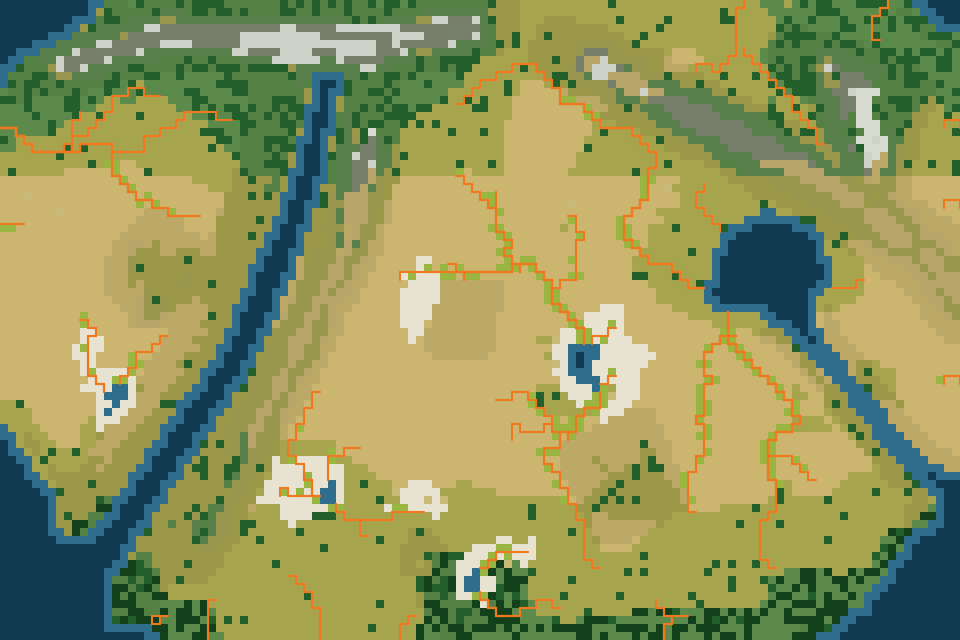
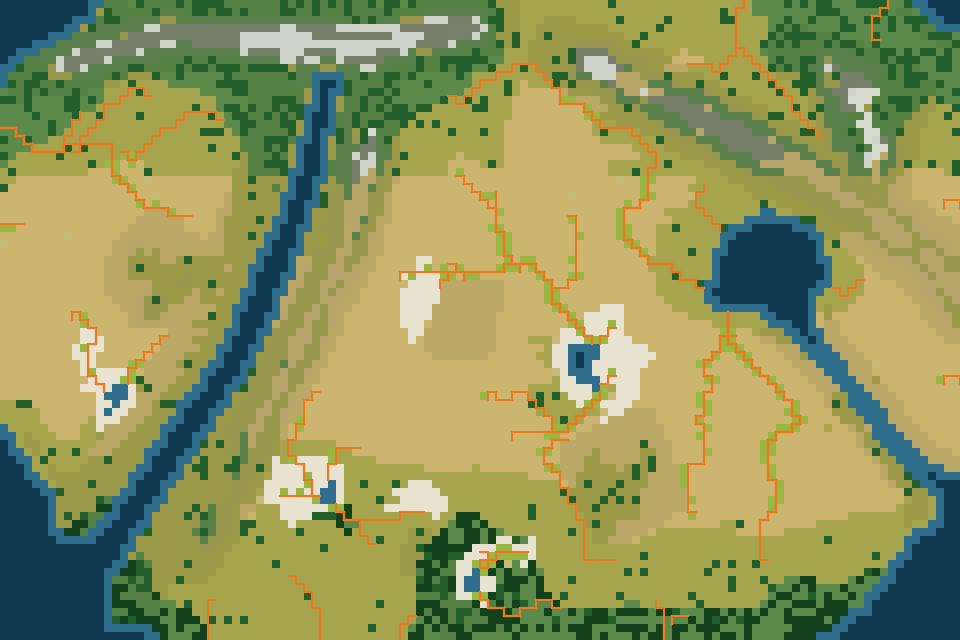
Meandering climate bands; atolls as thin rings with lagoons
- climate: the zonal tables are read at a meandering latitude (+-3.5 deg,
  waves ~10 deg long), so climate borders wander like storm tracks
  instead of following lines of latitude (the stripe in the temperate map).
- sculpt chain: atolls are written per tile as one-tile elliptical rings
  of islets and reef around a shallow lagoon, up to ~7 tiles across,
  more islets on the windward side, land share varying per atoll
  (atollRadius, atollLand), capped by the chain spacing; the oldest high
  islands sit inside barrier reefs; volcanoes are elongated.
- Round 4 maps rebuilt; READMEs updated.

diff --git a/core/sculpt.js b/core/sculpt.js
@@ -103,11 +103,19 @@
       const pts = []; let total = 0; for (let i = 1; i < path.length; i++) total += Math.hypot(path[i][0] - path[i - 1][0], path[i][1] - path[i - 1][1]);
       const at = s => { let acc = 0; for (let i = 1; i < path.length; i++) { const L = Math.hypot(path[i][0] - path[i - 1][0], path[i][1] - path[i - 1][1]); if (acc + L >= s || i === path.length - 1) { const u = L ? clamp((s - acc) / L, 0, 1) : 0; const dx = path[i][0] - path[i - 1][0], dy = path[i][1] - path[i - 1][1], n = Math.hypot(dx, dy) || 1; return [path[i - 1][0] + u * dx, path[i - 1][1] + u * dy, -dy / n, dx / n]; } acc += L; } };
       for (let j = 0; j < cnt; j++) { const f = j / (cnt - 1), p = at(f * total), off = (vnoise(j * 1.7 + seed, 3.1) - 0.5) * 2 * jit * lerp(r0, r1, f) * 1.5; pts.push({ x: p[0] + p[2] * off, y: p[1] + p[3] * off, h: lerp(h0, h1, f) * (0.75 + 0.5 * vnoise(j * 2.3, seed)), r: lerp(r0, r1, f) * (0.8 + 0.4 * vnoise(seed, j * 1.9)), atoll: j >= cnt - nAt, s: seed + j * 101 }); }
+      const spacing = total / Math.max(1, cnt - 1), [a0, a1] = o.atollRadius || [1.2, 3.4], nVol = cnt - nAt, nBar = o.barrier === false ? 0 : Math.ceil(nVol * 0.35);
+      pts.forEach((v, j) => {   // an atoll's ring is as big as a drowned volcano's reef grew, not as small as the volcano was
+        const u = vnoise(v.s * 0.37, 5.3), R = Math.max(0.6, Math.min(lerp(a0, a1, u * u * 1.15), spacing * 0.33));
+        const land = o.atollLand != null ? clamp(+o.atollLand, 0, 1) : 0.2 + 0.65 * vnoise(2.9, v.s * 0.53);   // some atolls are nearly all reef, some a near-closed ring of islets
+        if (v.atoll) { SC.post.push({ kind: 'atoll', x: v.x, y: v.y, r: R, land, s: v.s }); return; }
+        if (j >= nVol - nBar) SC.post.push({ kind: 'atoll', x: v.x, y: v.y, r: v.r + 1.1 + 0.6 * u, land: 0.12 + 0.2 * u, s: v.s + 7 });   // the oldest high islands sink inside a barrier reef (Bora Bora)
+      });
       for (const v of pts) {
-        if (v.atoll) { SC.post.push({ kind: 'atoll', x: v.x, y: v.y, r: Math.max(0.6, v.r), s: v.s }); continue; }
+        if (v.atoll) continue;
+        const e = 1 + 0.7 * vnoise(v.s * 0.71, 1.7), th = vnoise(4.4, v.s * 0.29) * Math.PI * 2, ce = Math.cos(th), se = Math.sin(th);   // islands are elongated along their rift zones
         /* r is the island's radius AT SEA LEVEL: above it a shield rising to v.h, below it the submarine flank falling to
            the floor over another 1.5 r, with lobed outlines so no two islands share a shape */
-        forCells((i, x, y) => { const dx = x - v.x, dy = y - v.y, ang = Math.atan2(dy, dx), lobe = 1 + 0.28 * (vnoise(Math.cos(ang) * 1.8 + v.s, Math.sin(ang) * 1.8 - v.s) - 0.5) * 2, d = Math.hypot(dx, dy) / (v.r * lobe); if (d > 2.6) return;
+        forCells((i, x, y) => { const dx = x - v.x, dy = y - v.y, ang = Math.atan2(dy, dx), lobe = 1 + 0.28 * (vnoise(Math.cos(ang) * 1.8 + v.s, Math.sin(ang) * 1.8 - v.s) - 0.5) * 2, ua = dx * ce + dy * se, va = -dx * se + dy * ce, d = Math.hypot(ua / Math.sqrt(e), va * Math.sqrt(e)) / (v.r * lobe); if (d > 2.6) return;
           const val = d < 1 ? v.h * (1 - Math.pow(d, 1.4)) * (0.85 + 0.3 * vnoise(x * 1.3 + v.s, y * 1.3)) + 3 : -Math.min(1, (d - 1) / 1.5) * (-SC.base); SC.h[i] = Math.max(SC.h[i], val); });
       }
       note = `${cnt - nAt} volcanoes + ${nAt} atolls`;
@@ -142,9 +150,24 @@
     for (let i = 0; i < h.length; i++) { const v = SC.h[i]; h[i] = L >= 0 ? v - L : v >= 0 ? v + LOW : v > L ? (v - L) / (-L) * LOW : v - L; }
     for (const p of SC.post) {
       if (p.kind === 'atoll') {
-        const R = Math.ceil((p.r * 1.5 + 1) * k), cx0 = Math.floor(p.x * k), cy0 = Math.floor(p.y * k);
-        for (let cy = cy0 - R; cy <= cy0 + R; cy++) for (let cx = cx0 - R; cx <= cx0 + R; cx++) { if (cx < 0 || cy < 0 || cx >= GW || cy >= GH) continue; const x = (cx + 0.5) / k, y = (cy + 0.5) / k, dx = x - p.x, dy = y - p.y, ang = Math.atan2(dy, dx), rr = p.r * (1 + 0.25 * (vnoise(Math.cos(ang) * 1.5 + p.s, Math.sin(ang) * 1.5) - 0.5) * 2), d = Math.hypot(dx, dy), i = cy * GW + cx;
-          const ring = Math.exp(-Math.pow((d - rr) / Math.max(0.55, rr * 0.4), 2)); if (d < rr) h[i] = Math.max(h[i], -25 + 20 * ring); if (ring > 0.35) h[i] = Math.max(h[i], 4 + 6 * ring); else if (d > rr) h[i] = Math.max(h[i], -60 * (1 - ring) - 5); }   // a reef ring wide enough to hold land at tile scale, a shallow lagoon inside
+        /* written per tile (all k*k cells alike) so the rim is exactly one tile thick: an elliptical ring of reef with islets
+           (motus) on it, more of them on the windward (east) side, passes between them, a shallow lagoon inside and the reef
+           front falling to the deep outside. Everything is max()ed in, so a barrier reef never drowns its high island. */
+        const e = 1 + 0.6 * vnoise(p.s * 0.41, 8.2), th = vnoise(6.6, p.s * 0.17) * Math.PI * 2, ce = Math.cos(th), se = Math.sin(th);
+        const A = p.r * Math.sqrt(e), B = p.r / Math.sqrt(e), R = Math.ceil(A + 3), tx0 = Math.floor(p.x), ty0 = Math.floor(p.y), rim = [];
+        const put = (tx, ty, v) => { for (let dy = 0; dy < k; dy++) for (let dx = 0; dx < k; dx++) { const cx = tx * k + dx, cy = ty * k + dy; if (cx < GW && cy < GH) { const i = cy * GW + cx; h[i] = Math.max(h[i], v); } } };
+        for (let ty = ty0 - R; ty <= ty0 + R; ty++) for (let tx = tx0 - R; tx <= tx0 + R; tx++) {
+          if (tx < 0 || ty < 0 || tx * k >= GW || ty * k >= GH) continue;
+          const dx = tx + 0.5 - p.x, dy = ty + 0.5 - p.y, u = dx * ce + dy * se, v = -dx * se + dy * ce, ang = Math.atan2(v, u), dist = Math.hypot(dx, dy);
+          const reff = 1 / Math.sqrt(Math.pow(Math.cos(ang) / A, 2) + Math.pow(Math.sin(ang) / B, 2)) + 0.3 * (vnoise(Math.cos(ang) * 1.6 + p.s, Math.sin(ang) * 1.6 - p.s) - 0.5) * 2;
+          const sd = dist - reff;
+          if (Math.abs(sd) <= 0.5) { const n = vnoise(Math.cos(Math.atan2(dy, dx)) * 2.2 + p.s * 0.3, Math.sin(Math.atan2(dy, dx)) * 2.2 - p.s * 0.3) + 0.15 * dx / Math.max(0.5, dist); rim.push([tx, ty, n]); }
+          else if (sd < -0.5) put(tx, ty, -10 - 12 * clamp(-sd / Math.max(1, B), 0, 1));   // lagoon
+          else if (sd < 3) put(tx, ty, -18 - 45 * (sd - 0.5) / 2.5);                          // reef front
+        }
+        if (!rim.length) continue;
+        rim.sort((a, b) => b[2] - a[2]); const nLand = Math.max(1, Math.round(rim.length * p.land));
+        rim.forEach(([tx, ty], j) => put(tx, ty, j < nLand ? 3 + 2 * (j % 2) : -3));        // islets on the highest-scoring rim tiles, reef elsewhere
       } else if (p.kind === 'fjords') {
         let total = 0; for (let i = 1; i < p.path.length; i++) total += Math.hypot(p.path[i][0] - p.path[i - 1][0], p.path[i][1] - p.path[i - 1][1]);
         for (let j = 0; j < p.count; j++) {

diff --git a/core/climate.js b/core/climate.js
@@ -64,9 +64,13 @@
     }
     const Ta = new Float32Array(N), warm = new Float32Array(N), cold = new Float32Array(N), P = new Float32Array(N), kc = new Uint8Array(N), seas = new Uint8Array(N);
     for (let y = 0; y < H; y++) {
-      const lat = grid.lat(y), a = Math.abs(lat), band = lerpTable(P_BAND, a), t0 = lerpTable(T_LAT, a);
+      const lat = grid.lat(y), a = Math.abs(lat);
       for (let x = 0; x < W; x++) {
         const i = y * W + x; if (!land[i]) continue;
+        /* the zonal tables are read at a meandering latitude (+-3.5 deg, waves ~10 deg long, measured in degrees so every map
+           scale meanders alike), as storm tracks and the subtropical highs wander: climate borders are not lines of latitude */
+        const dpt = km / 111.32, sd = grid.seed || 1, aE = Math.max(0, a + 7 * (vnoise(x * dpt / 10 + sd * 2.1, lat / 10 - sd) - 0.5));
+        const band = lerpTable(P_BAND, aE), t0 = lerpTable(T_LAT, aE);
         const dkm = dist[i] * km, cont = clamp(dkm / 1500, 0, 1), e = Math.max(0, elev[i]);
         // mid-latitude windward coasts are mild, lee coasts and interiors cold (the ocean's heat carried on the westerlies)
         const wband = fromWest[y] ? clamp((a - 32) / 10, 0, 1) * clamp((70 - a) / 8, 0, 1) : 0;
@@ -74,7 +78,7 @@
         Ta[i] = t; warm[i] = t + amp / 2; cold[i] = t - amp / 2;
         const mIso = 0.55 * Math.exp(-dkm / 700), m = Math.max(mDir[i], mIso);
         // weather is patchy: a low-frequency +-25% field (and a little finer grain) keeps the zonal bands from drawing ruler-straight climate borders
-        const sd = grid.seed || 1, patch = 1 + 0.5 * (vnoise(x / 7 + sd * 1.3, y / 7 - sd * 0.7) - 0.5) + 0.2 * (vnoise(x / 2.5 - sd, y / 2.5 + sd) - 0.5);
+        const patch = 1 + 0.5 * (vnoise(x / 7 + sd * 1.3, y / 7 - sd * 0.7) - 0.5) + 0.2 * (vnoise(x / 2.5 - sd, y / 2.5 + sd) - 0.5);
         P[i] = band * (150 + 1900 * m + 2200 * oro[i]) * (opts.wetness || 1) * patch;
         // seasonality: Mediterranean west coasts, monsoon windward coasts
         const westCoast = fromWest[y] && a >= 30 && a <= 44 && cont < 0.45;

diff --git a/mcp/scenarios/round4/README.md b/mcp/scenarios/round4/README.md
@@ -15,6 +15,7 @@ The critique of round 3, and what changed in the tools because of it:
 | Map 4 has too much ocean; fill the interstitial spaces | `attach {overlap:'auto'}` *fuses* pieces along an interest-weighted min-cut seam that prefers land meeting land; `fill_gaps` closes sea gaps between pieces into lowland (lakes and river mouths kept); `reclimate` gives the collage the climate of where its pieces now sit. |
 | the MCP is timid about mashing landforms together | each snapshot gets a per-tile **interest** map (0-9: relief, capes and bay heads, climate boundaries, rivers, oases, flood plains, salt) shown by `overlay:'interest'`, with per-edge interest in `snapshot_info`; the fuse seam runs through low-interest land. |
 | broken rivers | fixed at the source (below). |
+| (follow-up) latitude banding in map 4; atolls homogeneous blobs | the climate tables are read at a meandering latitude (+-3.5°, waves ~10° long), so climate borders wander like storm tracks; atolls are rebuilt as thin rings (map 3). |
 
 ## 1. Earthlike world — `R4_1_earthlike.png` (sculpt)
 
@@ -26,9 +27,9 @@ hotspot chains, sea level set for 30% land.
 |---|---|
 | land | 32% |
 | continents | 1149 and 1092 tiles; subcontinents 263, 173, 151 |
-| climate | arid 41%, tropical 20%, temperate 18%, continental 11%, tundra 8%, ice 2% |
-| by latitude | 0-15° tropical 66%; 15-30° arid 86%; 30-45° arid 40% / temperate 39%; 45-60° continental 63% |
-| rivers | 18 systems, all reach the sea; 3 flagged (end in closed basins) |
+| climate | arid 42%, tropical 19%, temperate 18%, continental 11%, tundra 9%, ice 2% |
+| by latitude | 0-15° tropical 63%; 15-30° arid 86%; 30-45° arid 41% / temperate 38%; 45-60° continental 63% |
+| rivers | 20 systems, all reach the sea; 3 also have a branch ending in a closed basin |
 | cradles | the river valleys on the subtropical deserts' wet margins (west continent's south, east continent's centre) |
 
 ## 2. Desert — `R4_2_desert.png` (sculpt)
@@ -41,22 +42,29 @@ deepest part; arid basins are not filled into lakes.
 | | |
 |---|---|
 | land | 88% |
-| climate | arid 76%, temperate 14% (the northern ranges), tundra 5% (peaks), tropical 5% (the far south) |
+| climate | arid 76%, temperate 13% (the northern ranges), tropical 6% (the far south), tundra 5% (peaks) |
 | closed basins | 6, from 103 tiles of salt flat with an 18-tile lake down to 24 tiles |
-| rivers | 28 systems: 16 reach the sea or a lake, 11 leave across the map border, 5 end in salt flats |
+| rivers | 28 systems: 15 reach the sea or a lake, 10 leave across the map border, 3 end in salt flats |
 | oases, flood plains | features on (oasis density 0.8): the oases and valley floors are the ground worth fighting over |
 
 ## 3. Tropical islands — `R4_3_tropical.png` (sculpt)
 
-16°N..16°S, seed 41. Six hotspot chains on separate tracks with open ocean between them: two long low atoll
-chains (Ralik/Ratak style, parallel), one long chain ageing from high islands to atolls, two short high chains,
-and one large high island at the centre with its own tail of atolls.
+16°N..16°S, seed 41. Six hotspot chains on separate tracks with open ocean between them: two short parallel
+atoll chains (Ralik/Ratak style), one long atoll chain with large rings (`atollRadius:[2.2,4]`), one chain ageing
+from high islands to atolls, a short high chain, and one large high island at the centre with its own tail.
+
+Atolls are one-tile rings around a shallow lagoon, up to 7 tiles across, elongated and oriented at random. The rim
+is islets (motus) and reef with passes between them, more islets on the windward east side. The share of the rim
+that is land varies per atoll, so some are nearly all reef and some a near-closed ring. The oldest high islands of
+each chain sit inside a barrier reef (the Bora Bora stage), and the volcanoes are elongated along their rift zones,
+so no two islands share a shape. Atoll size is capped at a third of the spacing, so a chain stays a row of distinct
+atolls instead of a reef band.
 
 | | |
 |---|---|
-| land | 7% |
-| landmasses | 38; the largest 119, 86, 82 tiles; the rest are islets and atolls |
-| climate | tropical 86%, temperate 14% (the high islands' uplands) |
+| land | 6% |
+| islands | the largest high islands 122, 93, 88 tiles; the rest are islets and atoll rims |
+| climate | tropical 85%, temperate 14% (the high islands' uplands) |
 | balance | no chain is more than a few tiles from open sea; every island is reachable by water from several sides |
 
 ## 4. Temperate with mountain chains — `R4_4_temperate.png` (compose + fuse + reclimate)
@@ -64,15 +72,15 @@ and one large high island at the centre with its own tail of atolls.
 Real pieces cut by lassos: New Zealand's Southern Alps (flipped N-S), western Norway, the Scottish Highlands,
 Jutland, western Ireland and the Pannonian basin. They are fused with `attach {overlap:'auto'}`; `fill_gaps` closes
 the sea between them in the south-west, keeping lakes and river mouths open. Then `reclimate` on a 56°N..40°N
-canvas with wetness 0.3, so the basin and the lee of the ranges become steppe; then `trim_rivers` and
+canvas with wetness 0.38, so the basin interior and the lee of the ranges become steppe; then `trim_rivers` and
 `extend_river`.
 
 | | |
 |---|---|
 | land | 50% (round 3: 40%), one main landmass of 4782 tiles |
-| terrain | forest 1070, plains 920, grass 893, hills 1104, peaks 503 |
-| climate | temperate 58%, arid (steppe) 19%, continental 16%, tundra 8% (high ranges) |
-| rivers | 45 systems, 44 reach water; 2 seam dead ends and 3 stubs of one or two edges remain |
+| terrain | forest 1275, grass 1090, plains 508, hills 1103, peaks 502 |
+| climate | temperate 49%, continental 34%, arid (steppe) 12%, tundra 6% (high ranges) |
+| rivers | 44 systems, 43 reach water; 2 seam dead ends and 3 stubs of one or two edges remain |
 
 ## Rivers
 
@@ -89,7 +97,7 @@ Fixes in this round:
 
 | map | river systems | reach water | other |
 |---|---|---|---|
-| 1 | 18 | 18 | 3 end in closed basins |
-| 2 | 28 | 16 | 11 exit across the border, 5 end in salt flats |
-| 3 | 1 | 1 | |
-| 4 | 45 | 44 | 2 seam dead ends and 3 stubs |
+| 1 | 20 | 20 | 3 with a branch into a closed basin |
+| 2 | 28 | 15 | 10 exit across the border, 3 end in salt flats |
+| 3 | 0 | — | islands too small and wet-flat for a channel |
+| 4 | 44 | 43 | 2 seam dead ends and 3 stubs |

diff --git a/mcp/README.md b/mcp/README.md
@@ -192,7 +192,9 @@ Earth's (core/sculpt.js), then derives everything else from it:
 2. Build it with `sculpt_shape` primitives — `blob` (land masses: several of them make a continent and fill the
    space between pieces), `ridge`, `rift` (a trough with raised shoulders; below sea level a narrow sea),
    `plateau`, `basin`, `chain` (a hotspot track from tall young volcanoes to atolls at the old end, every island
-   generated individually), `fjords` (glacial troughs cut into a mountainous coast after the sea level is set),
+   generated individually: elongated volcanoes, the oldest inside barrier reefs, then atolls as one-tile rings of
+   islets and reef around a shallow lagoon, up to ~7 tiles across, sized by `atollRadius` and capped by the
+   spacing; `atollLand` sets how much of the rim is land), `fjords` (glacial troughs cut into a mountainous coast after the sea level is set),
    `noise`, `smooth` — and `sculpt_stamp`, which drops a small fragment of real elevation anywhere at any size,
    rotation and mirror, feathered in. Each real source box is stamped once (no piece of the world is pasted
    twice); rotate and mix many small fragments for real-feeling relief in an original arrangement.
@@ -202,7 +204,8 @@ Earth's (core/sculpt.js), then derives everything else from it:
 5. `sculpt_realize` makes the game map: land and relief from absolute heights (900 m / 2600 m plus local range
    by default, so pieces agree), climate from a physical model (core/climate.js: temperature by latitude and
    lapse rate, maritime warmth on windward mid-latitude coasts and cold lee coasts and interiors, seasonality
-   from continentality, patchy rainfall (no ruler-straight climate borders), moisture carried by each latitude
+   from continentality, zonal tables read at a meandering latitude and patchy rainfall (climate borders wander
+   like storm tracks instead of following lines of latitude), moisture carried by each latitude
    band's prevailing wind —
    trades, westerlies, polar easterlies — and wrung out on windward slopes, leaving rain shadows; Mediterranean
    west coasts and monsoon coasts; then the Köppen decision tree), satellite-like colour from the real mean
